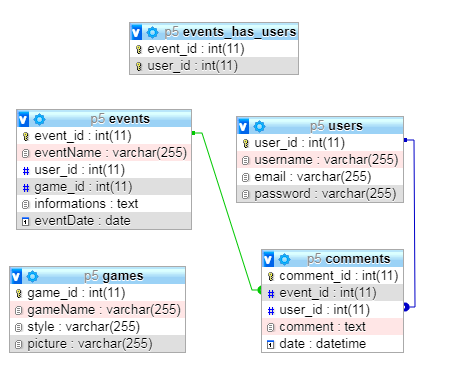
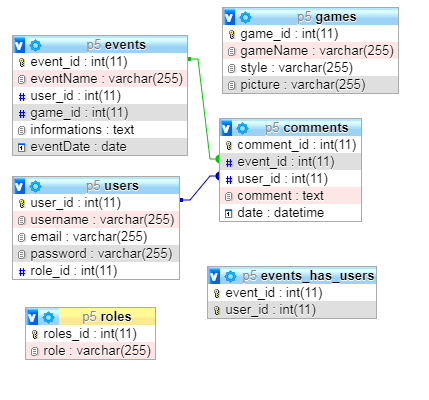
création du panneau administrateur

diff --git a/View/header.php b/View/header.php
@@ -10,21 +10,35 @@
                 <a class="nav-link" href="index.php?action=listEvents">Prochaines Séances</a>
             </li>
             <?php
-                if (isset($_SESSION['username']))
-            {?>
-            <li class="nav nav-item">
-                <a href="index.php?action=userDashboard" class="nav-link">
-                    Salut <?= $_SESSION['username'] ?> !</a>
-            </li>
-            <li class="nav nav-item">
-                <a href="index.php?action=logout" class="nav-link">Déconnexion</a>
-            </li>
+                if (isset($_SESSION['username'])) {
+                    if ($_SESSION['role'] === 'motherBrain') {
+                    ?>
+                        <li class="nav nav-item">
+                        <a href="index.php?action=adminDashboard" class="nav-link">
+                        Panneau d'administration</a>
+                        </li>
+                        <li clas="nav nav-item">
+                            <a href="" class="nav-link">Ajouter un jeu</a>
+                        </li>
+                        <?php
+                    } else {
+                    ?>
+                    <li class="nav nav-item">
+                        <a href="index.php?action=userDashboard" class="nav-link">
+                            Salut <?= $_SESSION['username'] ?> !</a>
+                    </li>
+                    <?php
+                    }
+                    ?>
                 <li class="nav nav-item">
                     <a href="index.php?action=getEventEditor" class="nav-link">Créer une séance</a>
                 </li>
-            <?php }
-                else {
-            ?>
+                <li class="nav nav-item">
+                    <a href="index.php?action=logout" class="nav-link">Déconnexion</a>
+                </li>
+                <?php
+                } else {
+                ?>
             <li class="nav-item">
                 <a class="nav-link" href="index.php?action=login">Connexion</a>
             </li>

diff --git a/App/Model/EventsManager.php b/App/Model/EventsManager.php
@@ -7,7 +7,7 @@ class EventsManager extends Manager
         $db = $this->getDbConnect();
         //joindre dans la requête SQL les bonnes informations
         $req = $db->prepare('SELECT *,DATE_FORMAT(eventDate,\'%d/%m/%Y\')AS eventDate_fr FROM events INNER JOIN users ON events.user_id = users.user_id
-INNER JOIN games ON events.game_id = games.game_id');
+INNER JOIN games ON events.game_id = games.game_id ORDER BY eventDate');
         $req->execute();
         return $req;
     }
@@ -16,7 +16,7 @@ INNER JOIN games ON events.game_id = games.game_id');
         $db = $this->getDbConnect();
         //joindre dans la requête SQL les bonnes informations
         $events = $db->prepare('SELECT *, DATE_FORMAT(eventDate,\'%d/%m/%Y\')AS eventDate_fr FROM events INNER JOIN users ON events.user_id = users.user_id
-INNER JOIN games ON events.game_id = games.game_id WHERE events.user_id = ?');
+INNER JOIN games ON events.game_id = games.game_id WHERE events.user_id = ?  ORDER BY eventDate');
         $events->execute(array($userId));
         return $events->fetchAll();
     }

diff --git a/index.php b/index.php
@@ -7,12 +7,14 @@ use App\Controller\EventsController;
 use App\Controller\UsersController;
 use App\Controller\CommentsController;
 use \App\Controller\PlayersController;
+use \App\Controller\AdminController;
 $action = "";
 $controller = new Controller();
 $eventsController = new EventsController();
 $usersController = new UsersController();
 $commentsController = new CommentsController();
 $playersController = new PlayersController();
+$adminController = new AdminController();
 if (isset($_GET['action'])) {
     $action = $controller->cleanVar($_GET['action']);
 }
@@ -56,6 +58,9 @@ try {
             break;
         case 'deletePlayer':
             $playersController->deletePlayer();
+            break;
+        case 'adminDashboard':
+            $adminController->adminDashboard();
             break;
         default:
             $controller->home();

diff --git a/App/Controller/UsersController.php b/App/Controller/UsersController.php
@@ -60,8 +60,15 @@ class UsersController extends Controller
             if (empty($errors)) {
                 $_SESSION['username'] = $username;
                 $_SESSION['userId'] = $userExists['user_id'];
-                $this->userDashboard();
-                die();
+                $_SESSION['role'] = $userExists['role'];
+                if ($_SESSION['role'] === 'motherBrain') {
+                    $adminController = new AdminController();
+                    $adminController->adminDashboard();
+                    die();
+                } else {
+                    $this->userDashboard();
+                    die();
+                }
             }
         }
         require('View/loginView.php');

diff --git a/App/Model/UsersManager.php b/App/Model/UsersManager.php
@@ -5,7 +5,7 @@ class UsersManager extends Manager
     public function getUserByName($username)
     {
         $db = $this->getDbConnect();
-        $req = $db->prepare('SELECT * FROM users WHERE username = ?');
+        $req = $db->prepare('SELECT * FROM users INNER JOIN roles ON users.role_id = roles.roles_id WHERE username = ?');
         $req->execute(array($username));
         return $req->fetch();
     }

diff --git a/App/Controller/AdminController.php b/App/Controller/AdminController.php
@@ -1,0 +1,13 @@
+<?php
+namespace App\Controller;
+class AdminController extends Controller
+{
+    public function adminDashboard()
+    {
+        if ($_SESSION['role'] === 'motherBrain') {
+            require('View/adminDashboardView.php');
+        } else {
+            throw new \Exception('Accès non autorisé!');
+        }
+    }
+}

diff --git a/View/adminDashboardView.php b/View/adminDashboardView.php
@@ -1,0 +1,7 @@
+<?php $title = 'Panneau Administrateur'; ?>
+<?php ob_start(); ?>
+
+Salut, chef!
+
+<?php $content = ob_get_clean();
+require('template.php'); ?>
